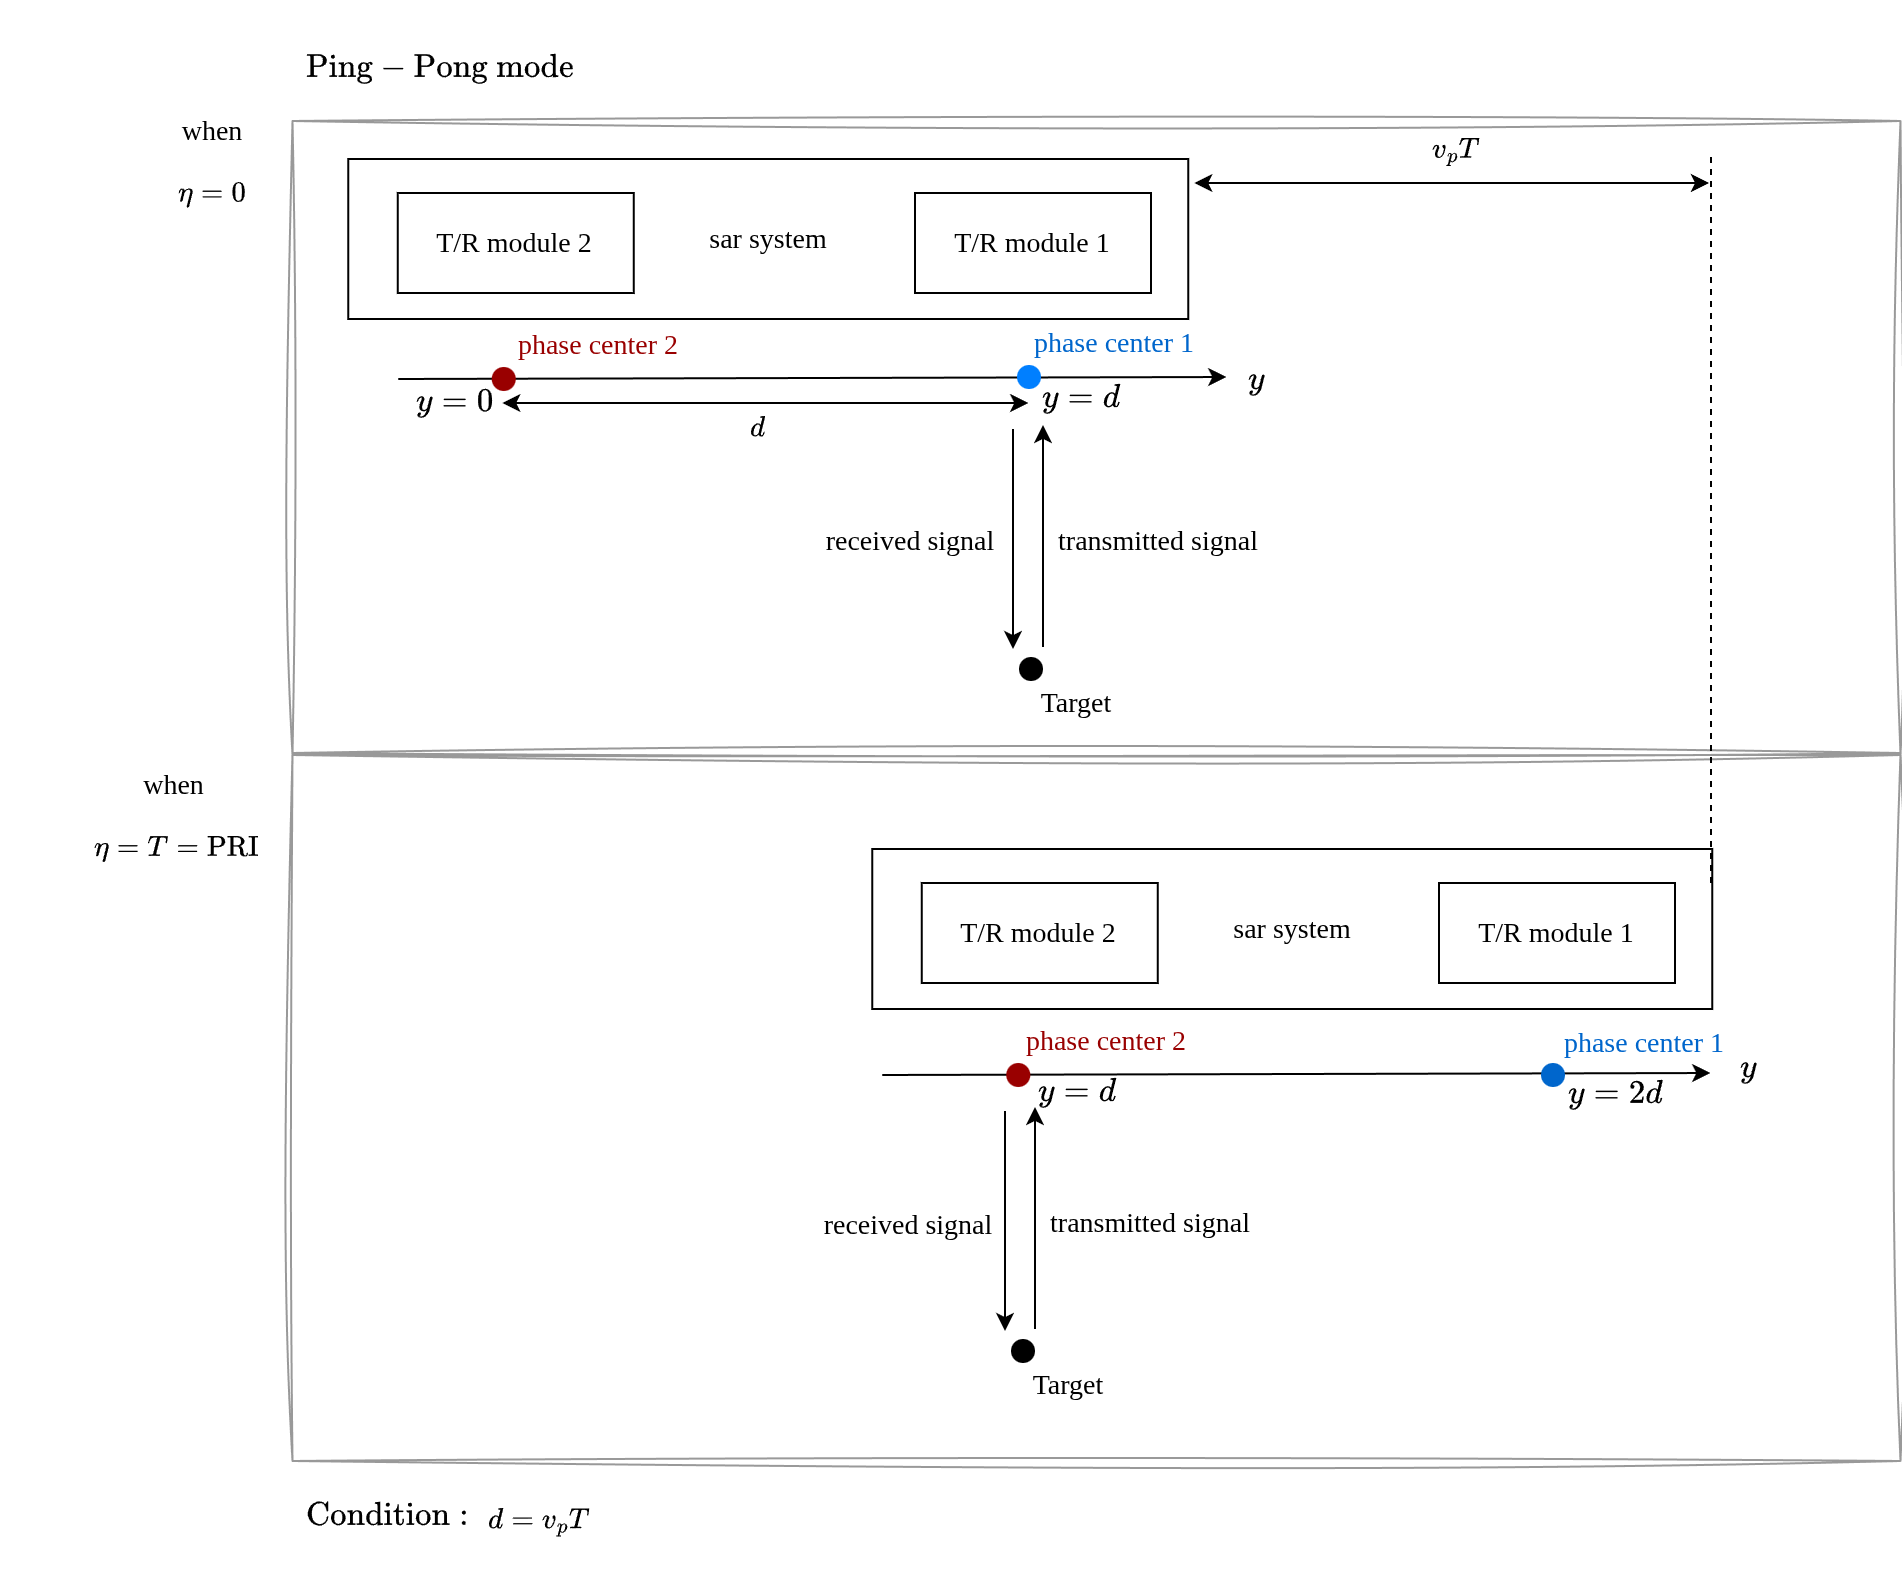
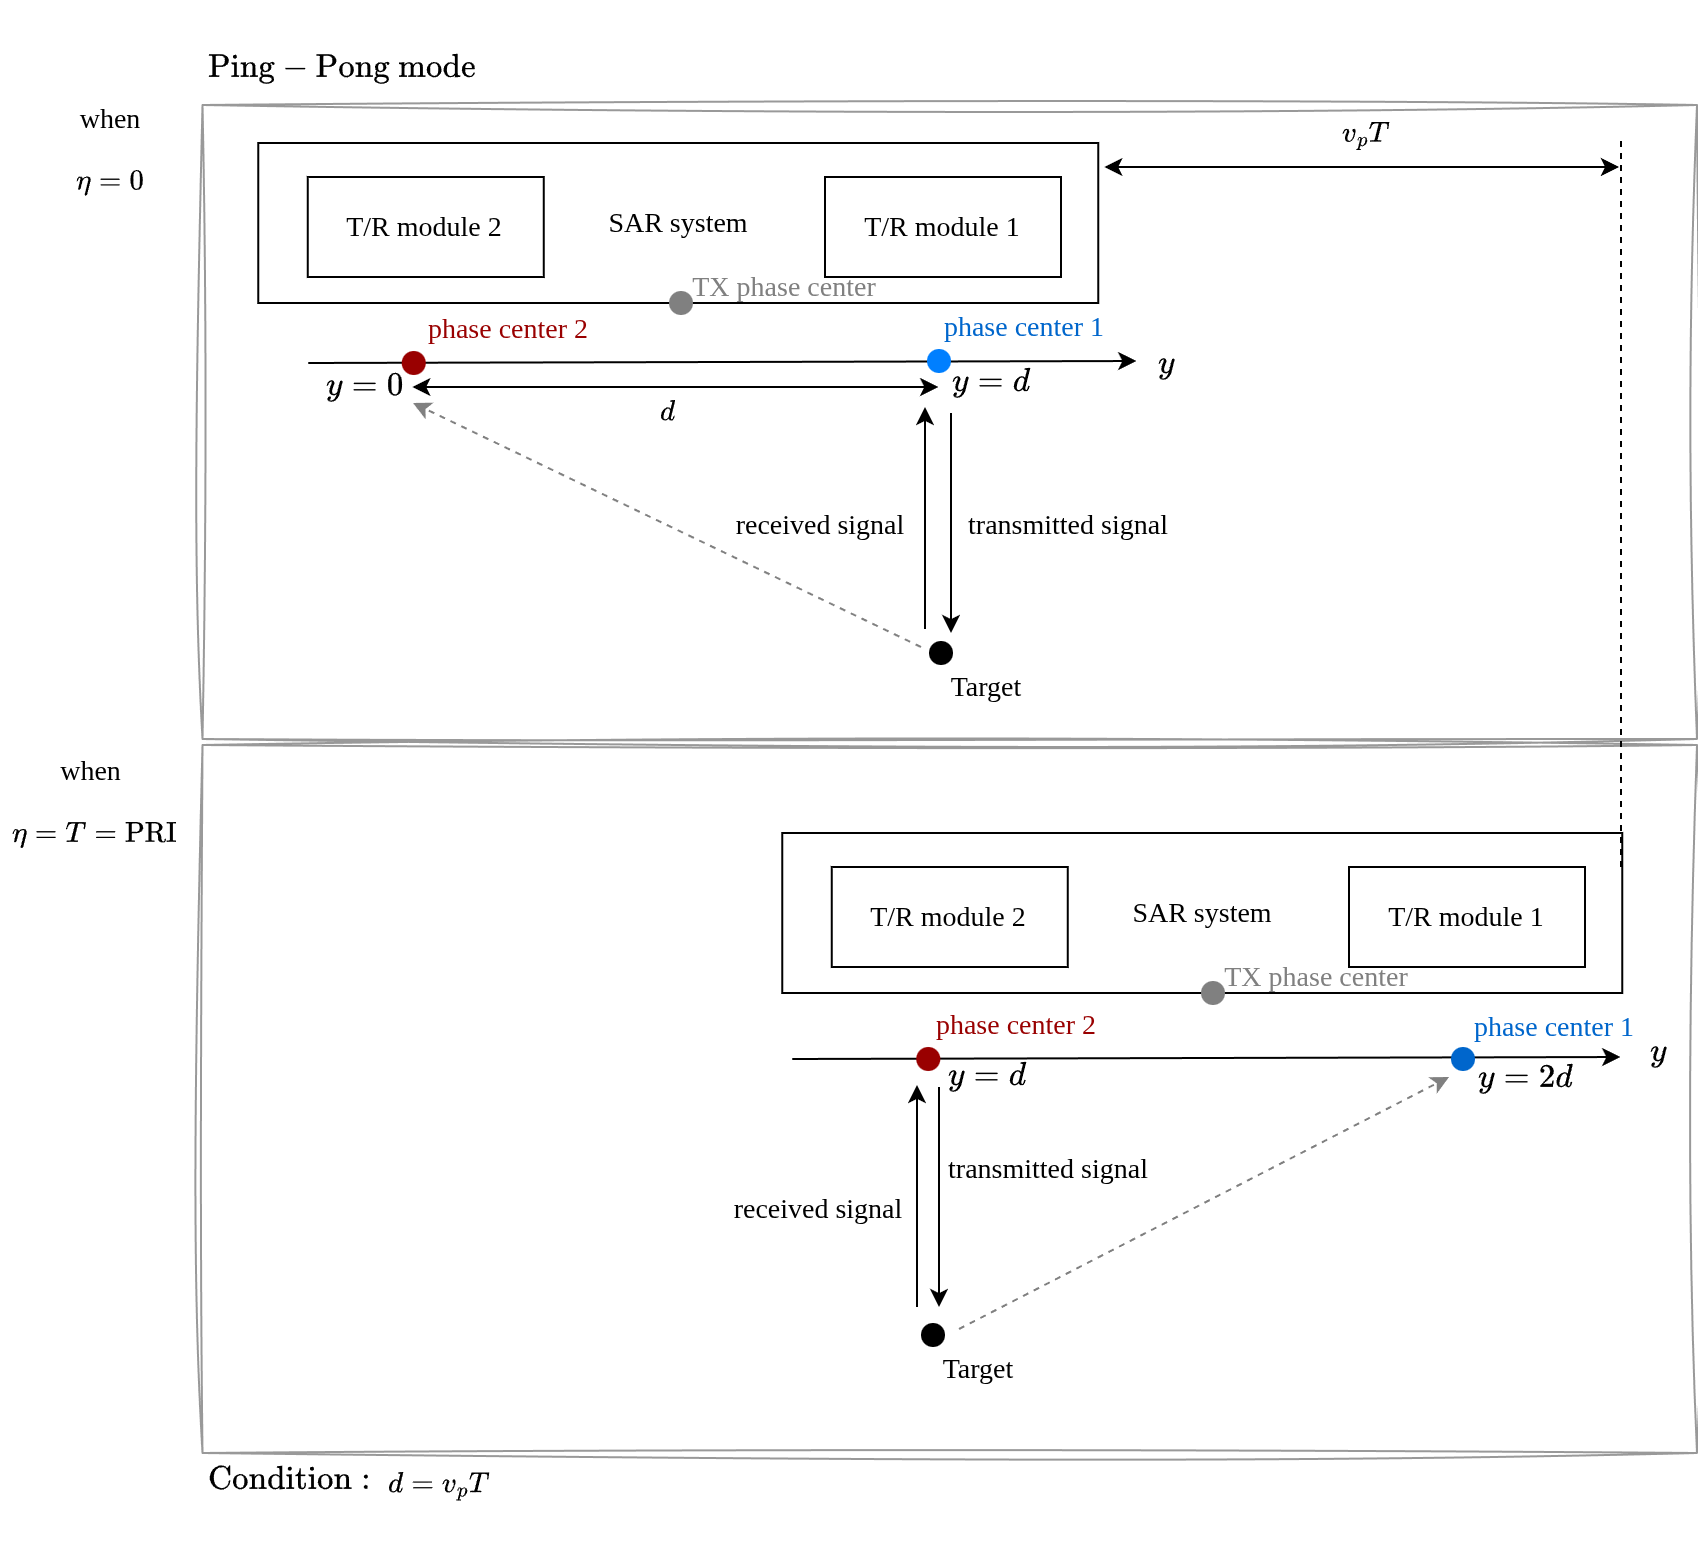
update dpca meeting 0417

diff --git a/DPCA/dpca_main.md b/DPCA/dpca_main.md
@@ -2,25 +2,24 @@
 
 ## Outline
 
+- [Summary](#summary)
 - [1. DPCA Concept and Motivation](#1-dpca-concept-and-motivation)
-  - [1.1. Why DPCA](#11-why-dpca-is-introduced-in-sar-imaging)
-  - [1.2. Displaced Phase Center and Effective PRF](#12-displaced-phase-center-and-effective-along-track-sampling)
-  - [1.3. Imaging Enhancement](#13-equivalent-prf-and-imaging-enhancement)
+  - [1.1. Why Displacement Phase Center Antenna (DPCA)](#11-why-displacement-phase-center-antenna-dpca)
+  - [1.2. Displaced Phase Center and Effective PRF](#12-displaced-phase-center-and-effective-prf)
+  - [1.3. Imaging Enhancement](#13-imaging-enhancement)
 - [2. Geometric Conditions](#2-geometric-conditions)
-  - [2.1. Geometric Condition](#21-geometric-condition-between-platform-motion-and-phase-centers)
+  - [2.1. Geometric Condition](#21-geometric-condition)
   - [2.2. Mismatched Spacing Condition](#22-mismatched-spacing-condition)
 - [3. Conclusions and Trade-offs](#3-conclusions-and-trade-offs)
-  - [3.1. Trade-off between Resolution, NESZ](#31-resolution-nesz-and-panel-trade-off)
-  - [3.2. Summary](#32-engineering-design-summary)
-  - [3.3. Pros and Cons](#33-dpca-pros-and-cons)
+  - [3.1. Trade-off between Resolution, NESZ](#31-trade-off-between-resolution-nesz)
+  - [3.2. DPCA-based GMTI and its trade-offs](#32-dpca-based-gmti-and-its-trade-offs)
 - [4. Follow-up Topics](#4-follow-up-topics)
 
 ## Summary
 
 - 為了達成HRWS成像
 - DPCA用以增加方位向取樣率（等效PRF），可以讓方位解析度變好並且不會減少swath width
-- Rx gain的能量變差
-- 因為每個resolution cell內可累積的能量下降，SNR變低，NESZ變大
+- Rx gain的收到的能量下降，導致NESZ變大
 - DPCA的trade-off是用NESZ換azimuth resolution
 
 ## 1. DPCA Concept and Motivation
@@ -29,7 +28,6 @@
 
 - **High-resolution (azimuth resolution) and wide-swath (HRWS) are contradictions** with the conventional single-channel spaceborne SAR systems.
 - Higher PRF is needed for high-resolution, but it reduces the (unambiguous) swath width.
-- DPCA has been successfully applied in the advanced SAR systmes.
 - DPCA improves azimuth sampling without requiring the true PRF to increase by the same factor, so the swath-width penalty can be relaxed.
 
 | Goal | Requires | Costs / Limits |
@@ -44,17 +42,20 @@
     - Phase center is the effective transmit/receive center of the antenna aperture.
 - Two main DPCA configurations are:
     - **Ping-pong mode**: 
+        - <img src="./figure/dpca-ping-pong.png" alt="DPCA Ping-Pong Mode" width="700" />
         - The aft-antenna collects the data from the same points as the fore-antenna with a time delay.
         - The condition of baseline $d = v_p T$ is required for the ping-pong mode to achieve the desired effective sampling.
+        - 實際上 $v_p$ 是固定的， $T=\mathrm{PRI}= 1 / \mathrm{PRF}$ 雖然可調整，但是也會受限 nadir return, TX eclipse等因素，所以 PRI 的調整空間有限，為了要有DPCA這個功能，要符合上述的condition, PRI的調整空間就更有限了。
+        - 兩個 TX 都會發射，兩個 RX 都會接收，不然Gain會掉更多。
+        - 實際上TX發射之後，RX1, RX2都會收訊號但是，上圖phase center 2的訊號丟掉不要，下圖phase center 1的訊號丟掉不要。(TX1, TX2 都會發射，RX1, RX2 都會接收嗎？)
+        - 目前SAR採用ping-pong mode
+        - Simulation: 在 $\eta=0$ 的時候，phase center 1接收的訊號，跟 $\eta=T$ 的時候，phase center 2接收的訊號，是來自同一個地物點的回波。 但是 phase 會不一樣，因為 TX phase center 不同， 會差一個 frequency offset。可以用作模擬？
+        - TerraSAR 是用 ping-pong mode, 一半primary antenna，一半 redundant antenna
+
     - **SIMO mode**: 
+        - <img src="./figure/dpca-simo.png" alt="DPCA SIMO Mode" width="800" />
         - Use one TX and multiple RX to create multiple phase centers.
         - The condition of baseline $d = 2v_p T$ is required for the SIMO mode to achieve the desired effective sampling.
-
-
-<img src="./figure/dpca-ping-pong.png" alt="DPCA Ping-Pong Mode" width="750" />
-<img src="./figure/dpca-simo.png" alt="DPCA SIMO Mode" width="750" />
-<!-- ![DPCA Ping-Pong Mode](./figure/dpca-ping-pong.png)
-![DPCA SIMO Mode](./figure/dpca-simo.png) -->
 
 - Once the effective sampling condition is satisfied, the effective PRF is doubled, which can improve the azimuth resolution without reducing the swath width.
 - **For example, with two phase centers, the effective PRF doubles.**
@@ -126,6 +127,17 @@ $$
     - 其數值越低表示雷達系統靈敏度越高，越能分辨低反射率的目標，成像品質越好。
     - 後向散射係數（ $\sigma^0$ Backscattering Coefficient）是量化目標物將雷達波束反射回雷達接收器的能力之指標。它代表單位面積的反射率，通常以分貝（dB）表示。
 
+- A commonly used NESZ model can be written as:
+
+$$
+\mathrm{NESZ}=\frac{
+4\cdot(4\pi)^3 R^3 V_s \sin\psi \cdot L_{atm}
+\cdot B\!\left(G_{rx}\cdot N_{cell,r}\cdot kT_K\cdot N_F + N_Q\right)}
+{0.886\cdot G_{rx}\cdot N_{cell,t}\cdot N_{cell,r}\cdot P_t\cdot G_t\cdot G_r\cdot \lambda^3\cdot c\cdot T_c\cdot PRF}
+$$
+
+- where $R$ is slant range, $V_s$ is platform velocity, $\psi$ is incidence angle, $L_{atm}$ is atmospheric loss, $B$ is receiver bandwidth, $G_{rx}$ is receiver gain, $N_{cell,t}$/$N_{cell,r}$ are Tx/Rx channel counts, $k$ is Boltzmann constant, $T_K$ is system temperature, $N_F$ is noise factor, $N_Q$ is quantization noise term, $P_t$ is transmit power, $G_t$/$G_r$ are Tx/Rx antenna gains, $\lambda$ is wavelength, $c$ is light speed, and $T_c$ is coherent integration time.
+
 - Relation between NESZ and SNR: 
 
 $$
@@ -147,43 +159,15 @@ $$
 
 - 這裡的 trade-off 是：**用 NESZ 換 azimuth resolution**。
 
-### 3.2. Summary
+### 3.2. DPCA-based GMTI and its trade-offs
 
-- From an engineering viewpoint, DPCA should be understood as a system-level trade-off.
-
-- DPCA is beneficial when:
-    - HRWS imaging requires better azimuth sampling without proportionally increasing the true PRF.
-
-- The critical condition is:
-    - the phase-center geometry must match the platform motion and PRI.
-
-- The main cost is:
-    - higher hardware complexity
-    - calibration burden
-    - multichannel processing complexity
-
-- The main risk is:
-    - degraded image quality if reconstruction quality or channel consistency is poor.
-
-- The main trade-off in DPCA-based SAR imaging is between azimuth resolution improvement and NESZ degradation.
-
-### 3.3. Pros and Cons
-
-| Pros | Cons |
-|---|---|
-| Improves effective azimuth sampling | Increases hardware complexity |
-| Helps relax the HRWS conflict between resolution and swath width | Requires channel calibration and multichannel processing |
-| Can improve azimuth resolution without proportionally increasing the true PRF | Imaging benefit becomes weaker under geometry mismatch or channel inconsistency |
-
-
-### 3.4 DPCA-based GMTI and its trade-offs
-
-- TBC
+- TBC (用三句話講完)
 
 ## 4. Follow-up Topics
 
-- DPCA-based GMTI (Ground Moving Target Indication) and its trade-offs.
-- If the channel consistency is poor, the reconstructed azimuth signal is degraded and the expected DPCA benefit becomes weaker.
+- Derive of the conditions of two modes.
+- How to simulate DPCA?
+- How to simulate DPCA with mismatched condition?
 
 | 衛星公司 | 衛星/星系名稱 | 實現機制 | 備註與商用產品應用 |
 | :--- | :--- | :--- | :--- |
